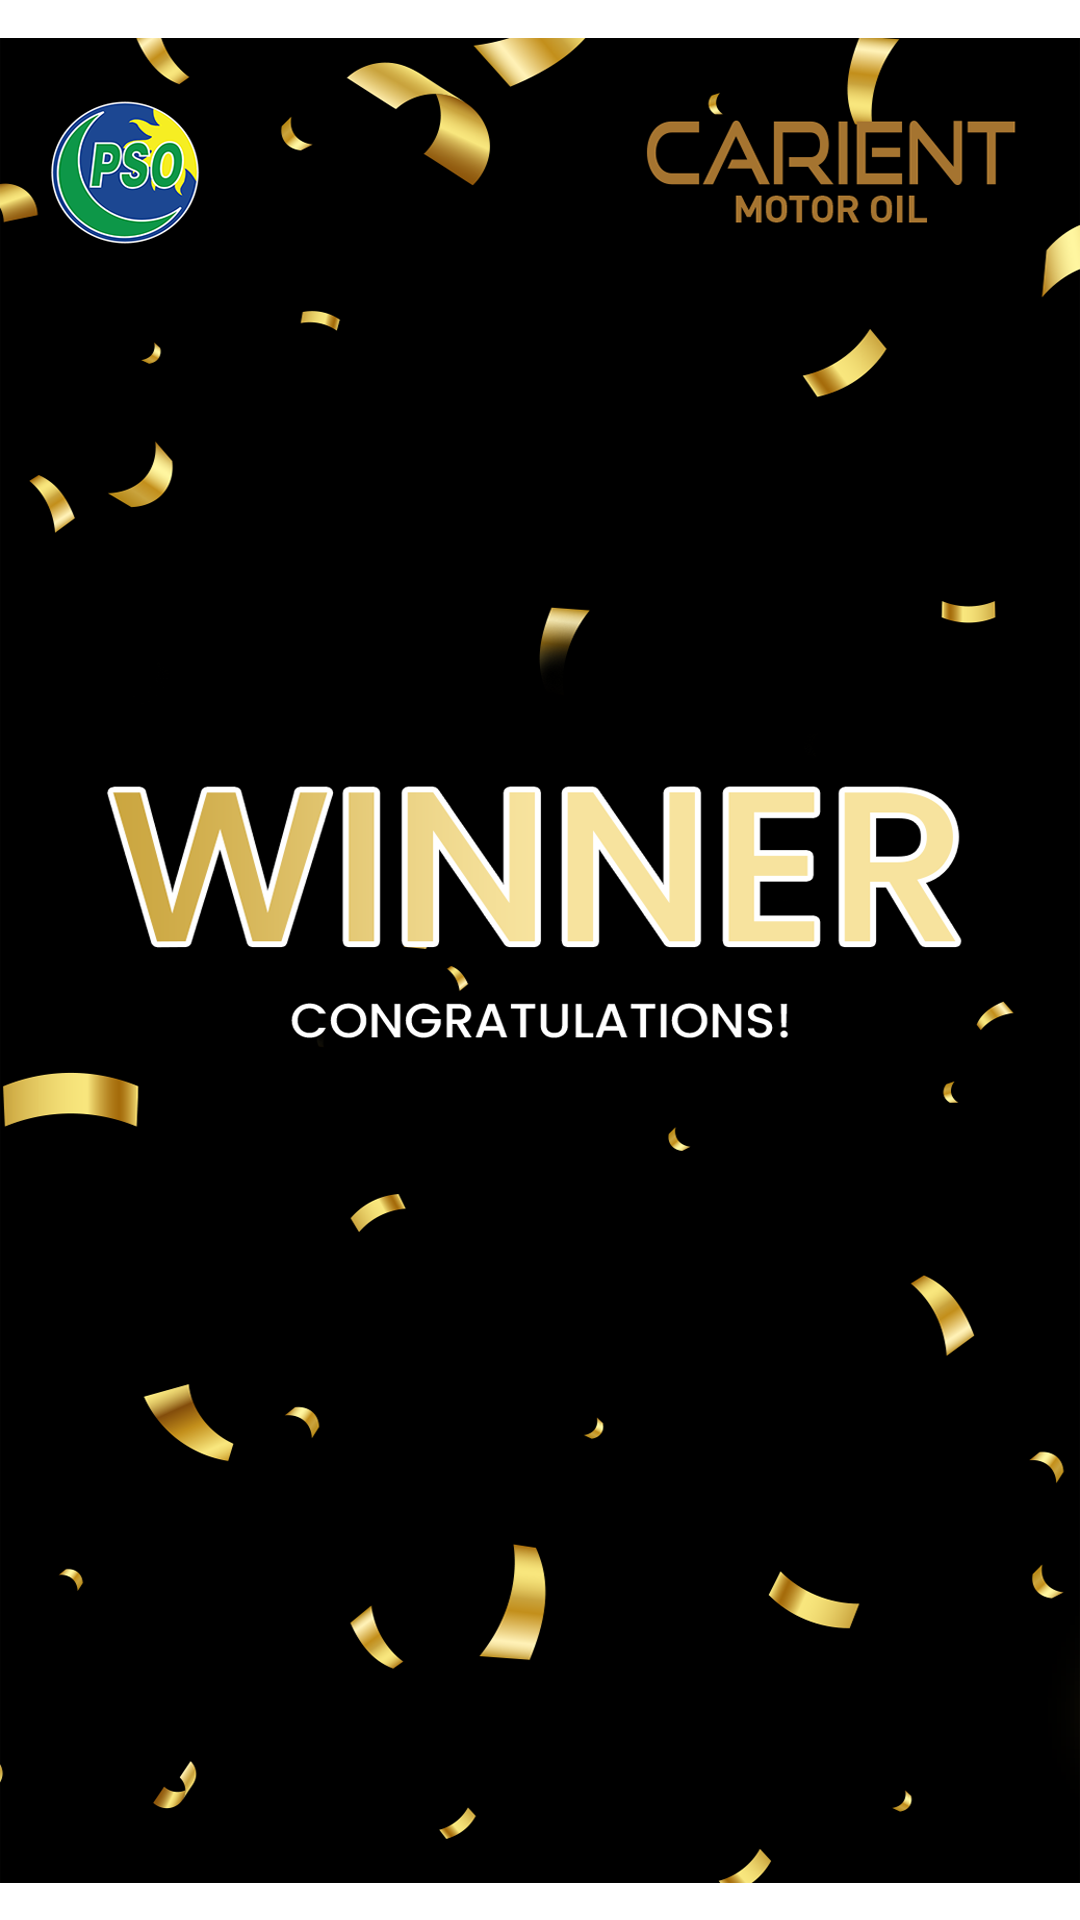
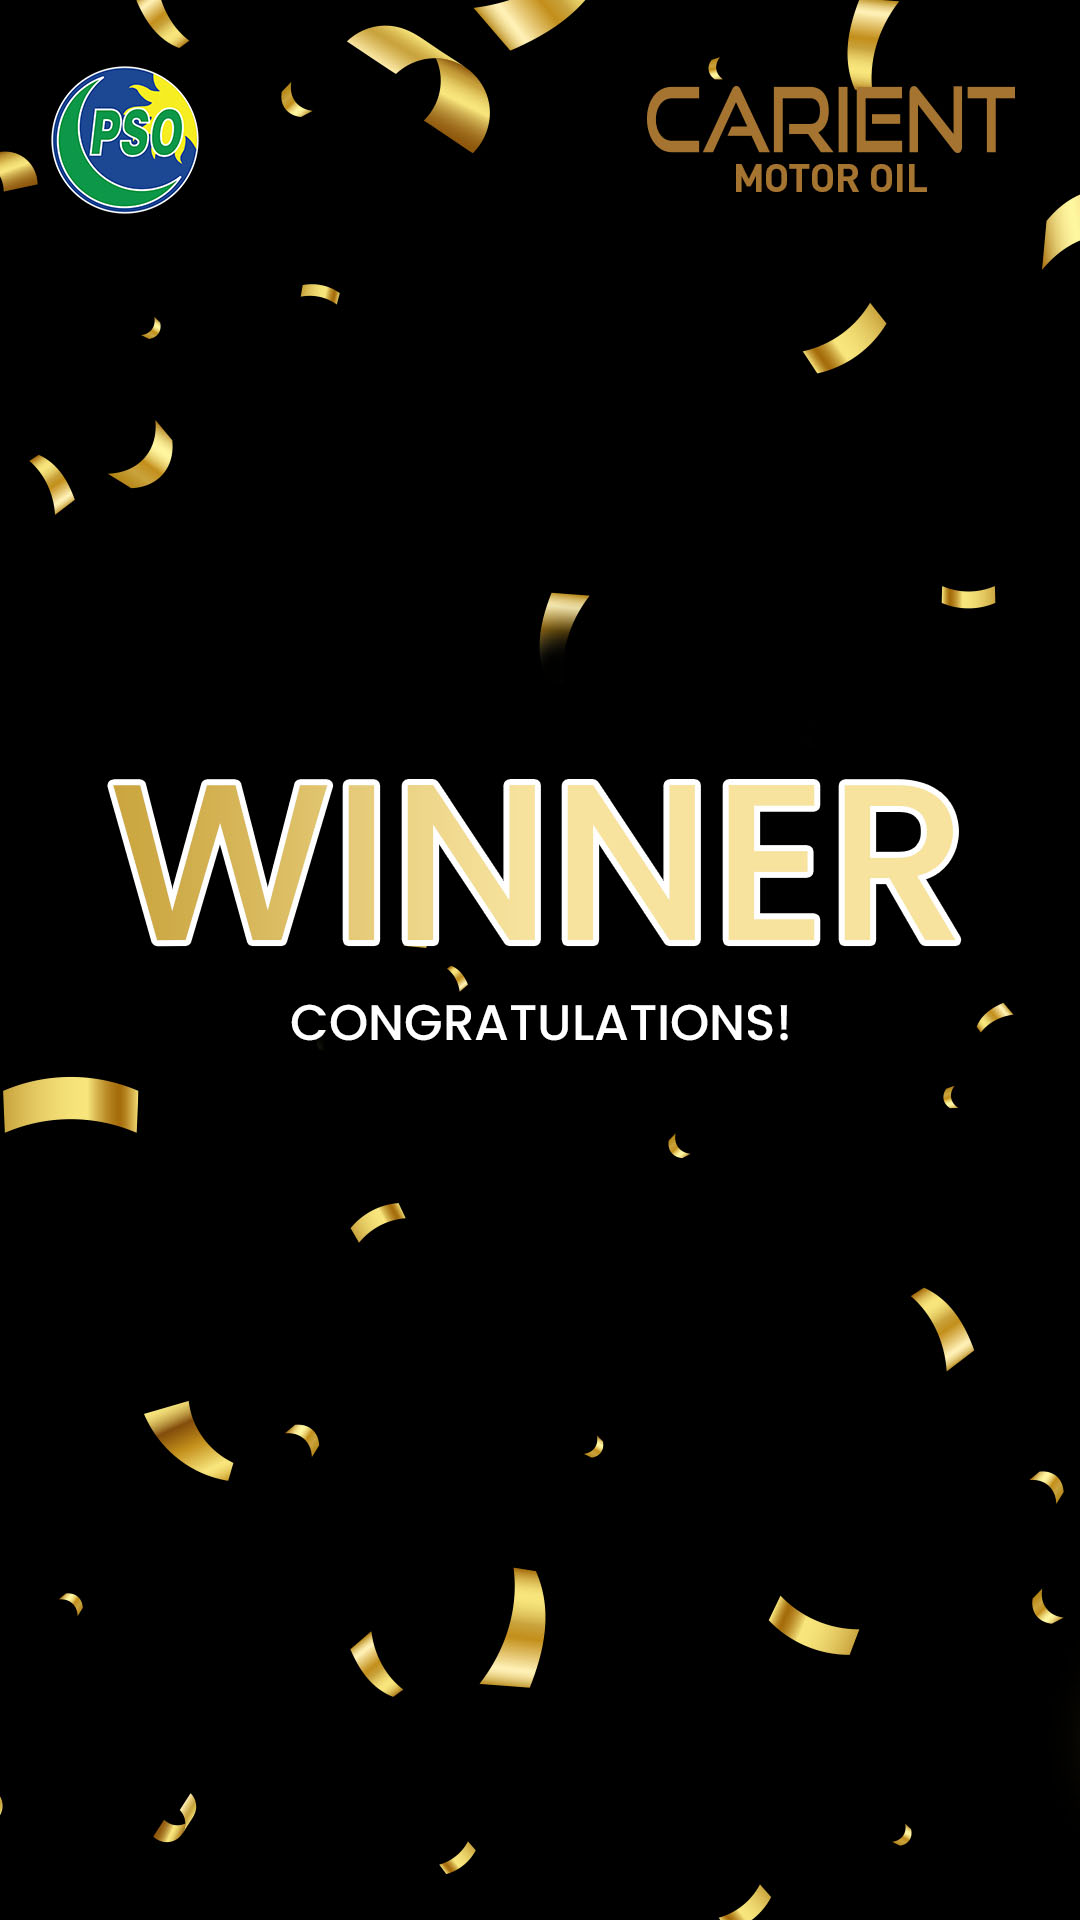
done

diff --git a/components/CrossWord.tsx b/components/CrossWord.tsx
@@ -1,6 +1,8 @@
 import { router } from "expo-router";
 import { useEffect, useRef, useState } from "react";
-import { Image, Pressable, StyleSheet, Text, View } from "react-native";
+import { Animated, Image, Pressable, StyleSheet, Text, View, Dimensions } from "react-native";
+
+const { width } = Dimensions.get('screen');
 
 interface C_Data {
     letter: string;
@@ -27,11 +29,29 @@ export default function CrossWord() {
     const [timer, setTimer] = useState<NodeJS.Timeout | null>(null);
     const [render, setRender] = useState<boolean>(false);
     const [selectedCells, setSelectedCells] = useState<Pos[]>([]);
+    const [selectedAnswers, setSelectedAnswers] = useState<number>(0);
     const [direction, setDirection] = useState<boolean | null>(null);
-    const resetTime = 2000;
+    const [gameStarted, setGameStarted] = useState<boolean>(false); // Tracks game state
+    const [progress] = useState(new Animated.Value(0)); // Timer progress bar
+    const resetTime = 1000;
+    const gameDuration = 30000;
 
     // Sort words by length, descending
-    const sortedAnswers = ["CARIENT", "DEO", "BIKE", "CAR", "TYRE", "BLAZE", "MILEAGE", "FUEL", "JOURNEY", "OIL"].sort((a, b) => b.length - a.length);
+    const sortedAnswers = [
+        "DEO", "CARIENT", "BIKE", "CAR", "TYRE", "BLAZE", "MILEAGE", "FUEL", "JOURNEY", "OIL"
+    ].sort((a, b) => b.length - a.length);
+
+    const startGame = () => {
+        setGameStarted(true);
+
+        Animated.timing(progress, {
+            toValue: 1,
+            duration: gameDuration,
+            useNativeDriver: false,
+        }).start(() => {
+            router.navigate('/looser');
+        });
+    };
 
     const resetGridPresses = (rowIndex: number, colIndex: number) => {
         crossWordDataRef.current = crossWordDataRef.current.map(row => row.map((cell) => ({ ...cell, pressed: false, highlighted: false })));
@@ -172,7 +192,13 @@ export default function CrossWord() {
         const combinedString = selectedCells.map(cell => crossWordDataRef.current[cell.row][cell.col].letter).join('')
         // If the string is in answers then make its correct as true
         if (sortedAnswers.includes(combinedString)) {
-            selectedCells.map(cell => crossWordDataRef.current[cell.row][cell.col].correct = true)
+            selectedCells.map(cell => crossWordDataRef.current[cell.row][cell.col].correct = true);
+            const selected_answers: number = selectedAnswers + 1;
+            setSelectedAnswers(selected_answers);
+            if (selected_answers === sortedAnswers.length) {
+                setGameStarted(false);
+                router.navigate('/winner');
+            }
         }
     }
 
@@ -196,11 +222,18 @@ export default function CrossWord() {
                 source={require('../assets/images/PSO_LOGO-01.png')} 
                 style={styles.logoImage}
             />
-            <Pressable
-                onPress={() => router.navigate('/looser')}
-                style={styles.startButton}>
-                <Image source={require('../assets/images/Start.png')}/>
-            </Pressable>
+            {!gameStarted ?
+                <Pressable
+                    onPress={startGame}
+                    style={styles.startButton}>
+                    <Image source={require('../assets/images/Start.png')}/>
+                </Pressable>
+            :
+                <Animated.View style={[styles.progressBar, { width: progress.interpolate({
+                    inputRange: [0, 1],
+                    outputRange: [0, width]
+                })}]} />
+        }
             <Image
                 source={require('../assets/images/MOTOR_OIL.png')} 
                 style={styles.motorOilImage}
@@ -214,7 +247,7 @@ export default function CrossWord() {
                     {row.map((cell, colIndex) => (
                         <Pressable 
                             key={colIndex} 
-                            onPress={() => handleCellPress(rowIndex, colIndex)} 
+                            onPress={() => gameStarted ? handleCellPress(rowIndex, colIndex) : null } 
                             style={[
                                 styles.cell,
                                 { backgroundColor: '#c18500' },
@@ -251,12 +284,19 @@ const styles = StyleSheet.create({
         position: 'absolute',
         top: '3%',
         left: '3%',
-        width: 108, // 36 * 4 = 144px
+        width: 108,
         height: 108,
     },
     startButton: {
         position: 'absolute',
         top: '10%',
+    },
+    progressBar: {
+        height: 25,
+        backgroundColor: 'green',
+        position: 'absolute',
+        top: '20%',
+        left: 0,
     },
     motorOilImage: {
         position: 'absolute',
@@ -305,6 +345,7 @@ const styles = StyleSheet.create({
     },
     wordText: {
         fontSize: 30,
+        fontFamily: 'Poppins-Medium',
         fontWeight: '600',
         color: 'white',
         marginRight: 200,

diff --git a/components/WinnerScreen.tsx b/components/WinnerScreen.tsx
@@ -9,6 +9,7 @@ export default function WinnerScreen() {
             <ImageBackground
                 source={require('../assets/images/winner_screen.png')}
                 style={styles.backgroundImage}
+                resizeMode='contain'
             >
                 <View style={styles.centeredView}>
                     <Pressable onPress={() => router.navigate('/')}>
@@ -30,10 +31,9 @@ const styles = StyleSheet.create({
         height: height,
     },
     centeredView: {
-        flex: 1,
-        justifyContent: 'center',
-        alignItems: 'center', 
-        marginTop: 220
+        position: 'absolute',
+        bottom: '20%',
+        left: '44%'
     },
     text: {
         fontSize: 37,

diff --git a/components/LooserScreen.tsx b/components/LooserScreen.tsx
@@ -9,6 +9,7 @@ export default function LoserScreen() {
             <ImageBackground
                 source={require('../assets/images/loose_screen.png')}
                 style={styles.backgroundImage}
+                resizeMode='contain'
             >
                 <View style={styles.centeredView}>
                     <Pressable onPress={() => router.navigate('/')}>
@@ -30,10 +31,9 @@ const styles = StyleSheet.create({
         height: height,
     },
     centeredView: {
-        flex: 1,
-        justifyContent: 'center',
-        alignItems: 'center', 
-        marginTop: 220
+        position: 'absolute',
+        bottom: '20%',
+        left: '44%'
     },
     text: {
         fontSize: 37,
